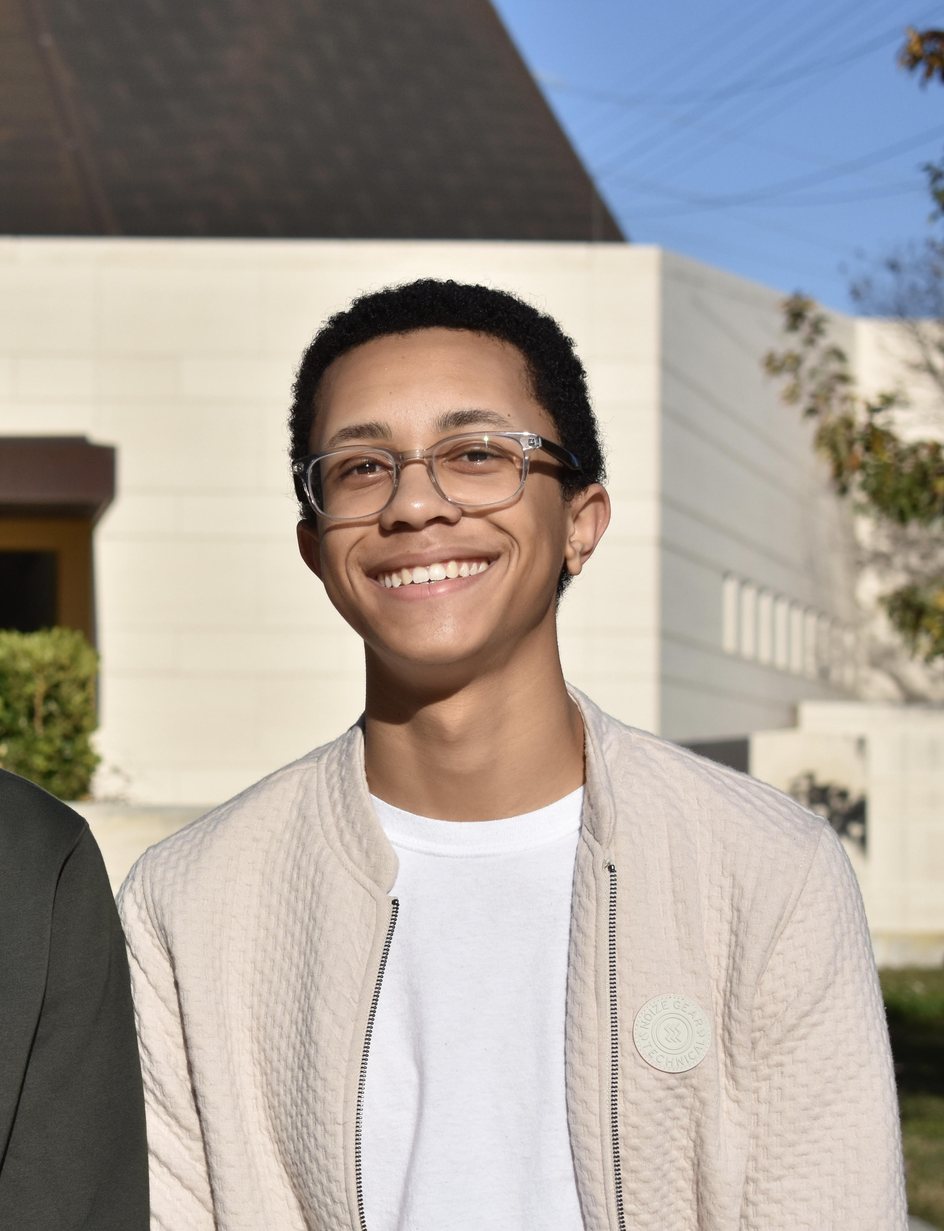
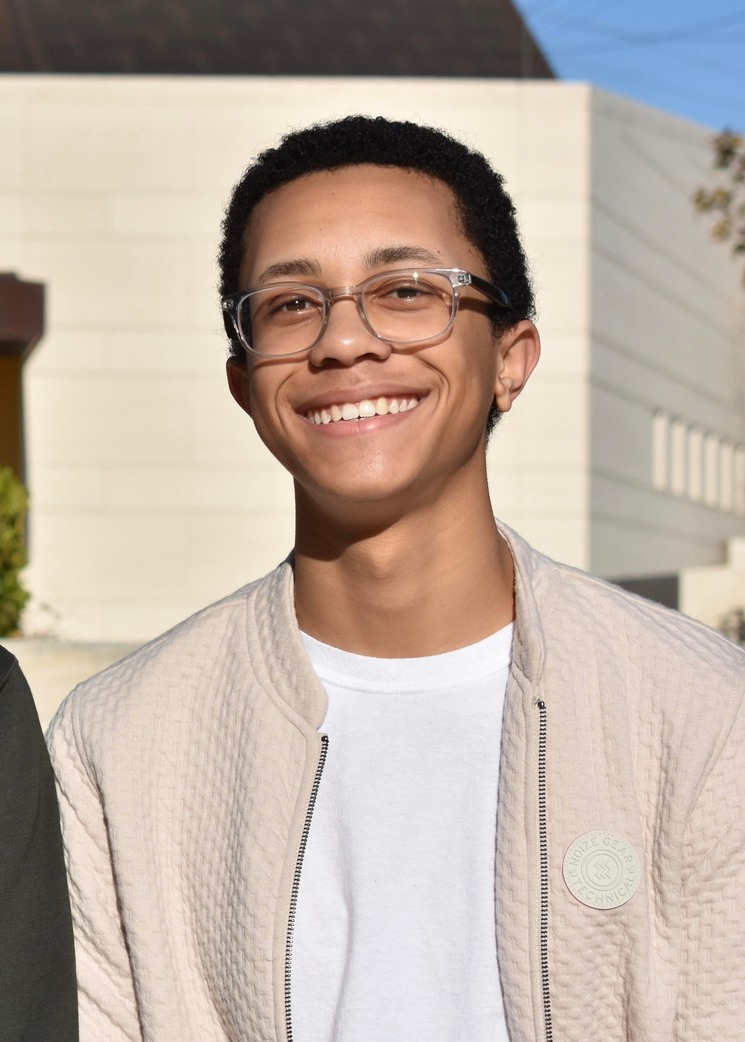
Organize some elements using grid layout, edit pictures.

diff --git a/portfolio/src/main/webapp/index.html b/portfolio/src/main/webapp/index.html
@@ -2,50 +2,61 @@
 <html lang="en">
   <head>
     <meta charset="UTF-8" />
-    <title>My Portfolio</title>
+    <title>Jag Jennings's Portfolio</title>
     <link rel="stylesheet" href="style.css" />
+    <meta name="viewport" content="width=device-width, initial-scale=1">
+    <link rel="stylesheet" href="https://maxcdn.bootstrapcdn.com/bootstrap/4.5.0/css/bootstrap.min.css">
+    <script src="https://ajax.googleapis.com/ajax/libs/jquery/3.5.1/jquery.min.js"></script>
+    <script src="https://cdnjs.cloudflare.com/ajax/libs/popper.js/1.16.0/umd/popper.min.js"></script>
+    <script src="https://maxcdn.bootstrapcdn.com/bootstrap/4.5.0/js/bootstrap.min.js"></script>
     <script src="script.js"></script>
   </head>
-  <body onload="getComments()">
-    <div id="content">
-      <div id="login-container"></div>
+  <body onload="getComments()" class="container-fluid pt-3">
+    <div id="content" class="container-fluid pt-3">
+      <header>
+        <div class="row">
+          <div class="col">
+            <h1>Jag Jennings's Portfolio</h1>
+            <h2>STEP Intern on Google Podcasts</h2>
+          </div>
+          <div id="login-container" class="col-auto"></div>
+        </div>
+      </header>
+      <br />
 
-      <h1>Jag Jennings's Portfolio</h1>
-      <h2>STEP Intern on Google Podcasts</h2>
-
-      <div id="images">
-        <img src="/images/pool.jpg" alt="Me playing pool" />
-        <img src="/images/throwing.jpg" alt="Me Throwing on the Wheel" />
-        <img src="/images/jag.jpg" alt="A Picture of Me" />
-        <img src="/images/goat.jpg" alt="Two Goats" />
-        <img src="/images/voice.jpg" alt="Me on the Voice" />
+      <div id="images" class="row justify-content-center">
+        <div class="col align-self-start"><img src="/images/pool.jpg" alt="Me playing pool" /></div>
+        <div class="col align-self-center"><img src="/images/throwing.jpg" alt="Me Throwing on the Wheel" /></div>
+        <div class="col align-self-start"><img src="/images/jag.jpg" alt="A Picture of Me" /></div>
+        <div class="col align-self-start"><img src="/images/goat.jpg" alt="Two Goats" /></div>
+        <div class="col align-self-start"><img src="/images/voice.jpg" alt="Me on the Voice" /></div>
       </div>
-      <br /><br />
+      <br />
 
-      <p>My name is Jag Jennings and I will be going into my Junior Year at XULA this Fall.</p>
+      <div>
+        <p>
+          I am a rising Junior at Xavier University in New Orleans, pursuing a degree in Computer Science. I have
+          participated in several Computer Science oriented summer programs, including Google’s Engineering Practicum
+          Internship, Google's Computer Science Summer Institute and the University of California, Irvine’s ASPIRE
+          program. I have also taken various online courses in both Python and Java, including AP Computer Science A
+          through Edhesive.com and Introduction to iOS Mobile App Development through Edmentum.com.
+        </p>
 
-      <p>
-        I am currently a Sophomore at Xavier University in New Orleans, pursuing a degree in Computer Science. I have
-        participated in several Computer Science oriented summer programs, including Google’s Engineering Practicum
-        Internship, Google's Computer Science Summer Institute and the University of California, Irvine’s ASPIRE
-        program. I have also taken various online courses in both Python and Java, including AP Computer Science A
-        through Edhesive.com and Introduction to iOS Mobile App Development through Edmentum.com.
-      </p>
+        <p>
+          I graduated Summa Cum Laude from Mater Dei High School in California with a 4.4 GPA. Over the course of my high
+          school career, I took 10 Advanced Placement Classes with a 100% passing rate, for which I have been awarded the
+          title of AP Scholar with Honor by College Board. I have also spent the last four years studying both the
+          language and culture of China, taking Mandarin Chinese classes at both Mater Dei and Saddleback College. I have
+          continued to enhance my Mandarin proficiency in college, and I currently act as a Student Ambassador for the
+          US-China Strong Foundation, encouraging Americans throughout the country to study Chinese.
+        </p>
 
-      <p>
-        I graduated Summa Cum Laude from Mater Dei High School in California with a 4.4 GPA. Over the course of my high
-        school career, I took 10 Advanced Placement Classes with a 100% passing rate, for which I have been awarded the
-        title of AP Scholar with Honor by College Board. I have also spent the last four years studying both the
-        language and culture of China, taking Mandarin Chinese classes at both Mater Dei and Saddleback College. I have
-        continued to enhance my Mandarin proficiency in college, and I currently act as a Student Ambassador for the
-        US-China Strong Foundation, encouraging Americans throughout the country to study Chinese.
-      </p>
-
-      <p>
-        In addition to my Computer Science and Mandarin Chinese experience, I possess proficient math skills and take
-        pleasure in problem-solving and critical thinking. I also have a significant understanding of Civil Engineering
-        through my studies of 3-D design softwares Sketchup, AutoCAD, and SolidWorks.
-      </p>
+        <p>
+          In addition to my Computer Science and Mandarin Chinese experience, I possess proficient math skills and take
+          pleasure in problem-solving and critical thinking. I also have a significant understanding of Civil Engineering
+          through my studies of 3-D design softwares Sketchup, AutoCAD, and SolidWorks.
+        </p>
+      </div>
 
       <p>Click here to get a random fact about me:</p>
       <button type="button" onclick="addRandomFact()">Fact</button>

diff --git a/portfolio/src/main/webapp/style.css b/portfolio/src/main/webapp/style.css
@@ -6,16 +6,19 @@
   font-weight: 200;
 }
 
-#images img {
-  text-align: center;
-  max-height: 340px;
-  max-width: 15%;
-  padding: 10px;
+header {
+  background-color: lightblue;
 }
 
 #images {
+  margin: auto;
+  width: 90%;
+}
+
+#images img {
   text-align: center;
   width: 100%;
+  padding: 10px;
 }
 
 .image-thumbnails {
@@ -42,8 +45,6 @@
   overflow: auto;
 }
 
-#login-container {
-  position: absolute;
-  top: 10px;
-  right: 40px;
-}
+/* #login-container {
+  text-align: right;
+} */
